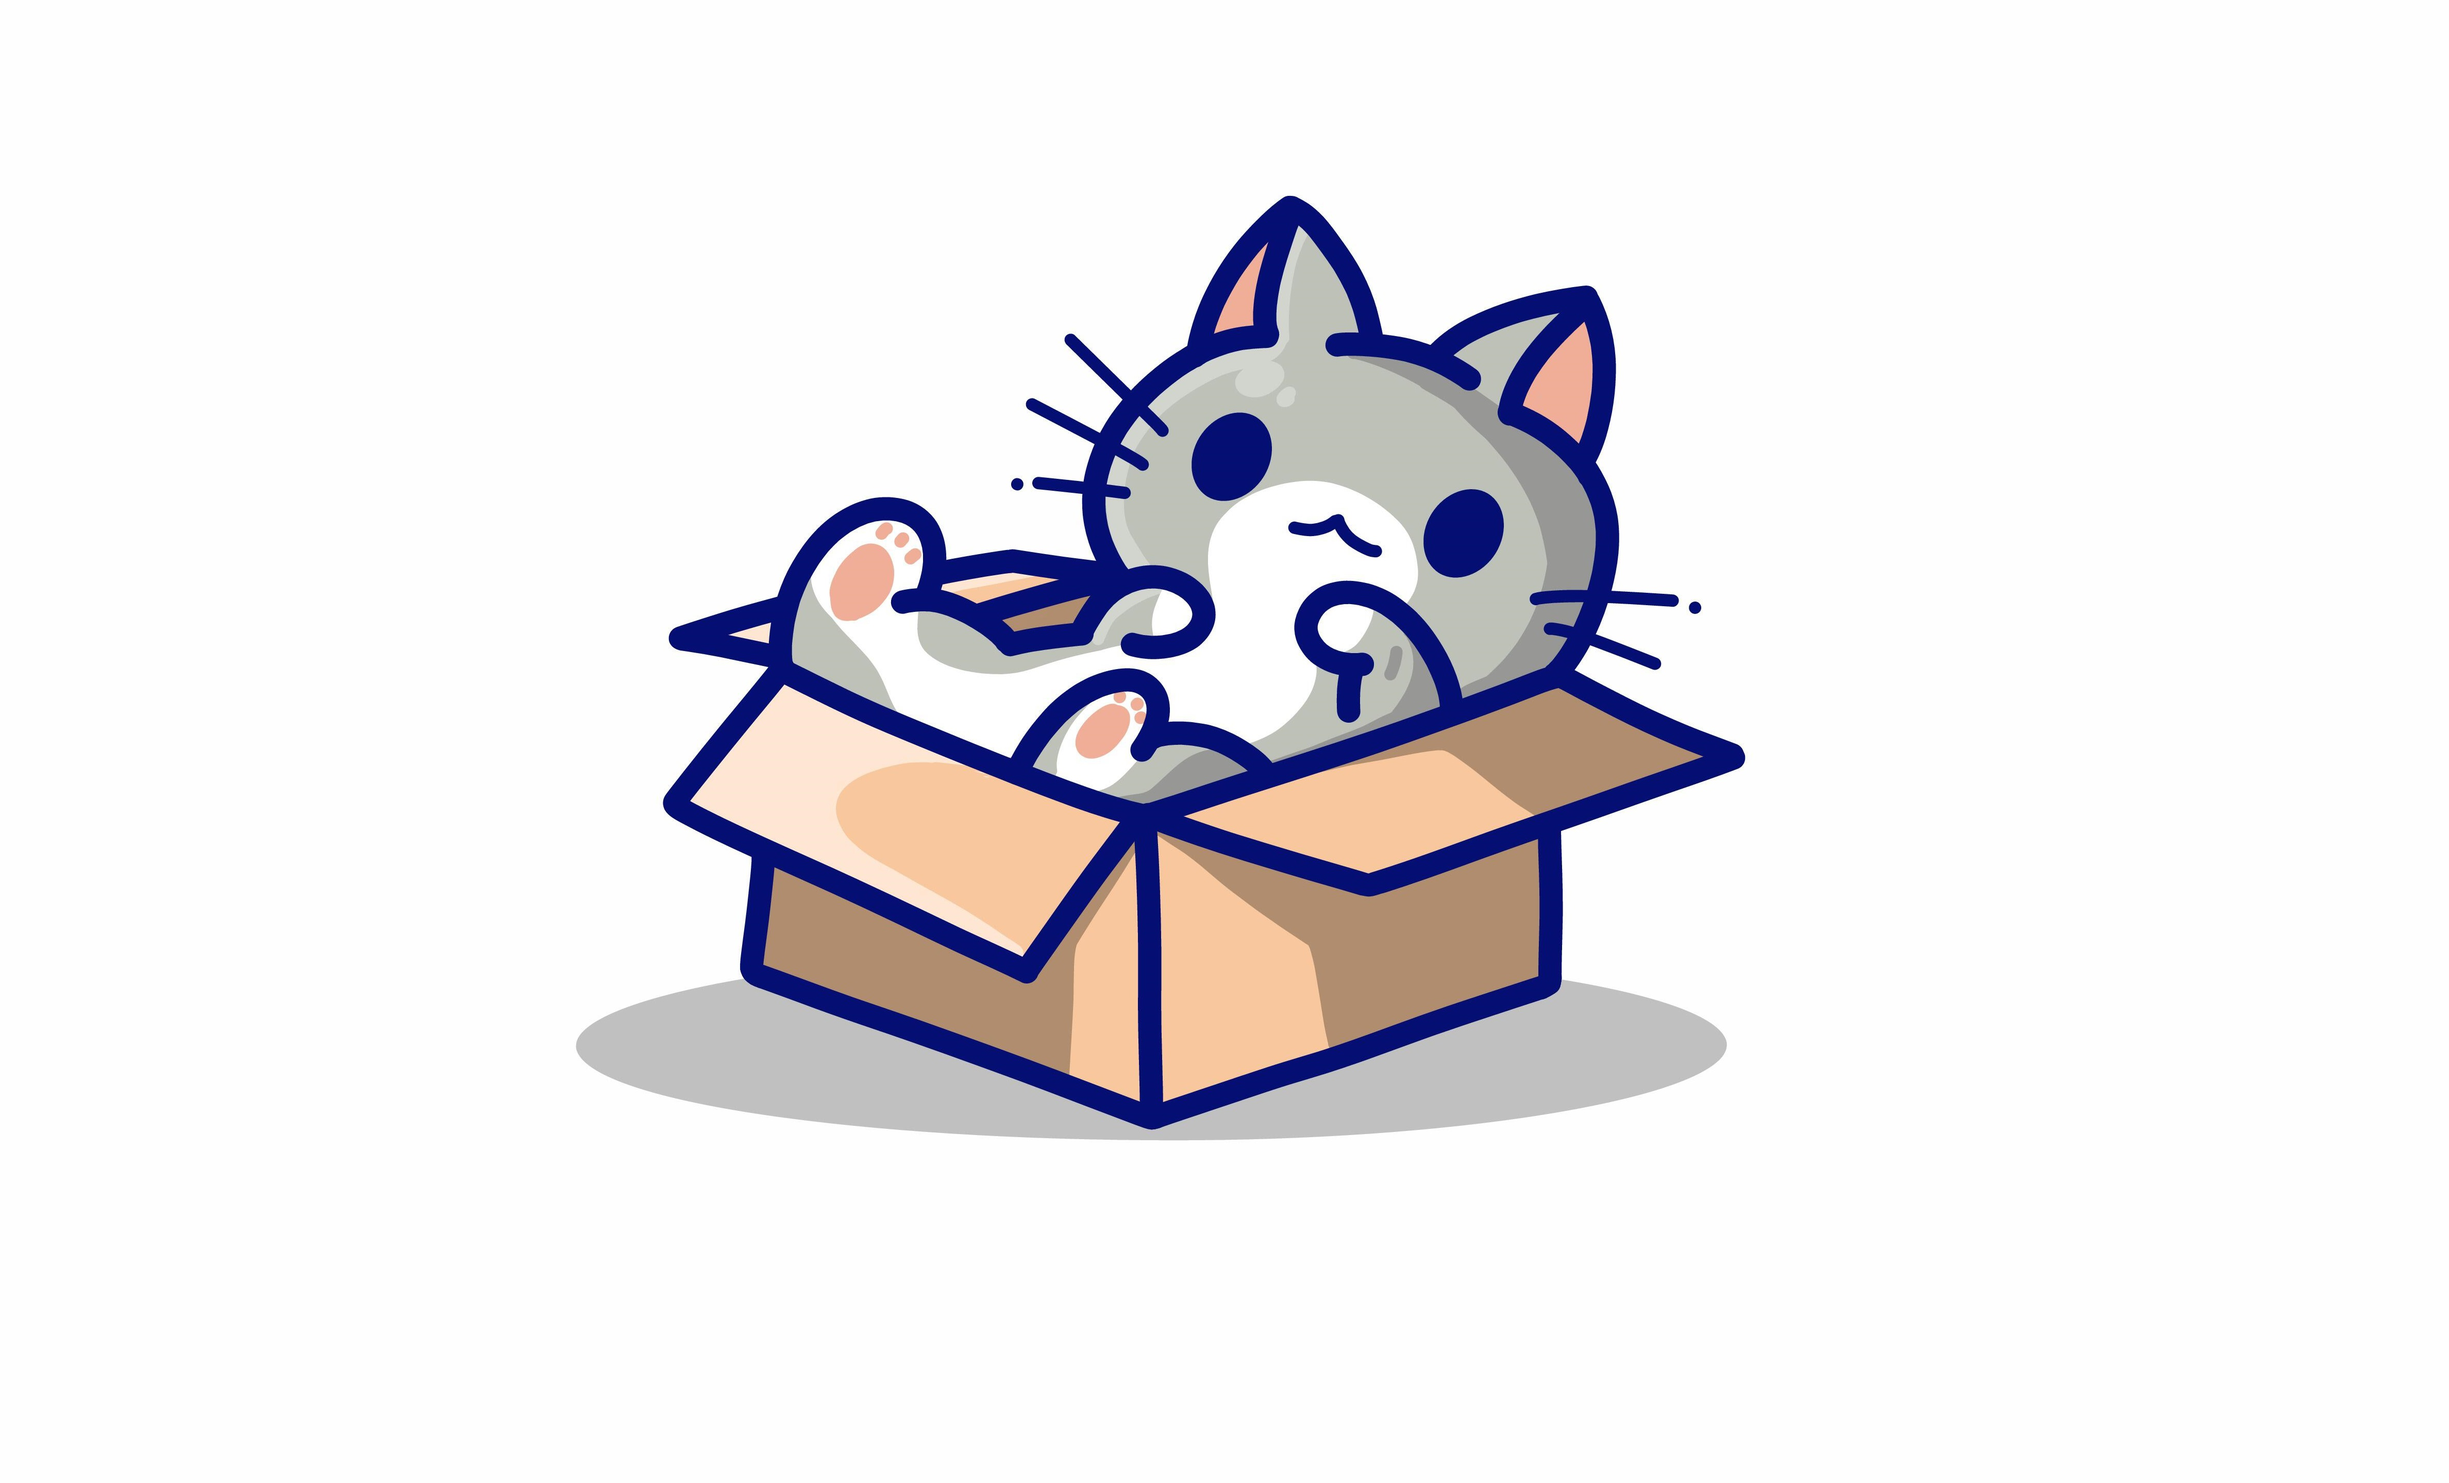
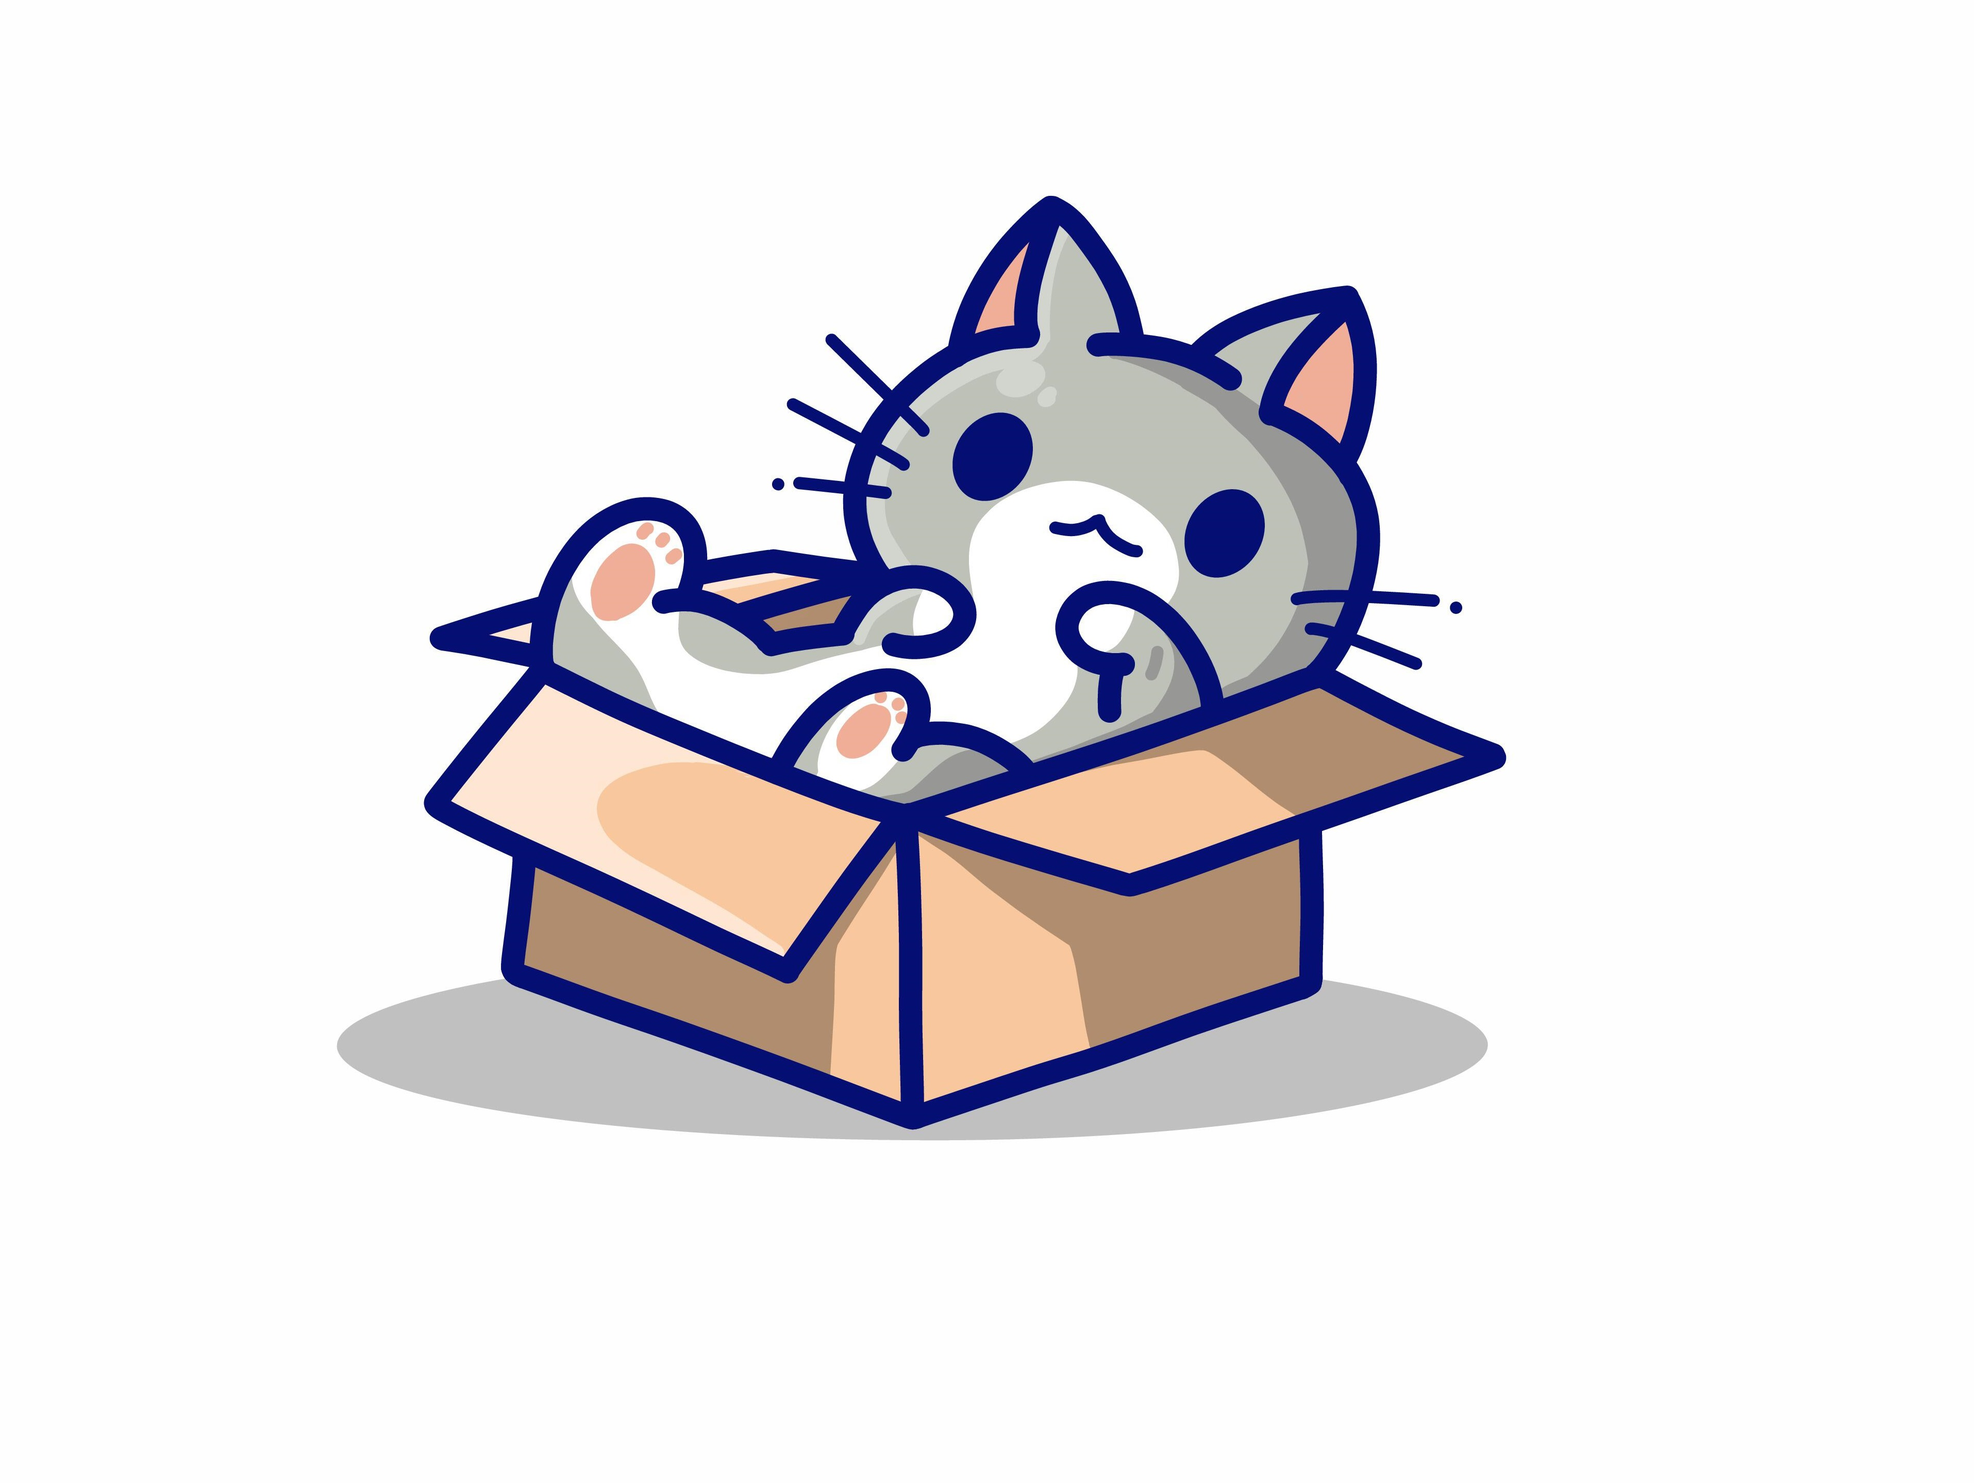
Footer updates

Changed region(s): [[0.1554, 0.1237, 0.7768, 0.7734]]

diff --git a/src/components/DesktopFooter.jsx b/src/components/DesktopFooter.jsx
@@ -188,7 +188,7 @@ const DesktopFooter = ({ darkModeEnabled }) => {
                         pt: '2rem'
                     }}
                 >
-                    <Typography
+                    {/* <Typography
                         className='feel-free'
                         sx={{
                             color: '#050E73',
@@ -196,7 +196,7 @@ const DesktopFooter = ({ darkModeEnabled }) => {
                         }}
                     >
                         Hooray! You found the cat!!!
-                    </Typography>
+                    </Typography> */}
                     <img className="boxcat-img" src={boxcat} />
                 </Stack>
 

diff --git a/src/components/MobileFooter.jsx b/src/components/MobileFooter.jsx
@@ -216,7 +216,7 @@ const MobileFooter = ({ darkModeEnabled }) => {
                         pt: '2rem'
                     }}
                 >
-                    <Typography
+                    {/* <Typography
                         className='feel-free'
                         sx={{
                             color: '#050E73',
@@ -224,7 +224,7 @@ const MobileFooter = ({ darkModeEnabled }) => {
                         }}
                     >
                         Hooray! You found the cat!!!
-                    </Typography>
+                    </Typography> */}
                     <img className="boxcat-img" src={boxcat} />
                 </Stack>
 

diff --git a/src/index.css b/src/index.css
@@ -238,7 +238,7 @@ body {
     }
 
     .boxcat-img {
-        height: 220px;
+        height: 270px;
         border-radius: 40px;
     }
 

diff --git a/README.md b/README.md
@@ -1,5 +1,4 @@
-# KileyPrice.com
-
+# Kiley's Portfolio
 This is a portfolio website for Kiley Price.
 
 ## Available Scripts
